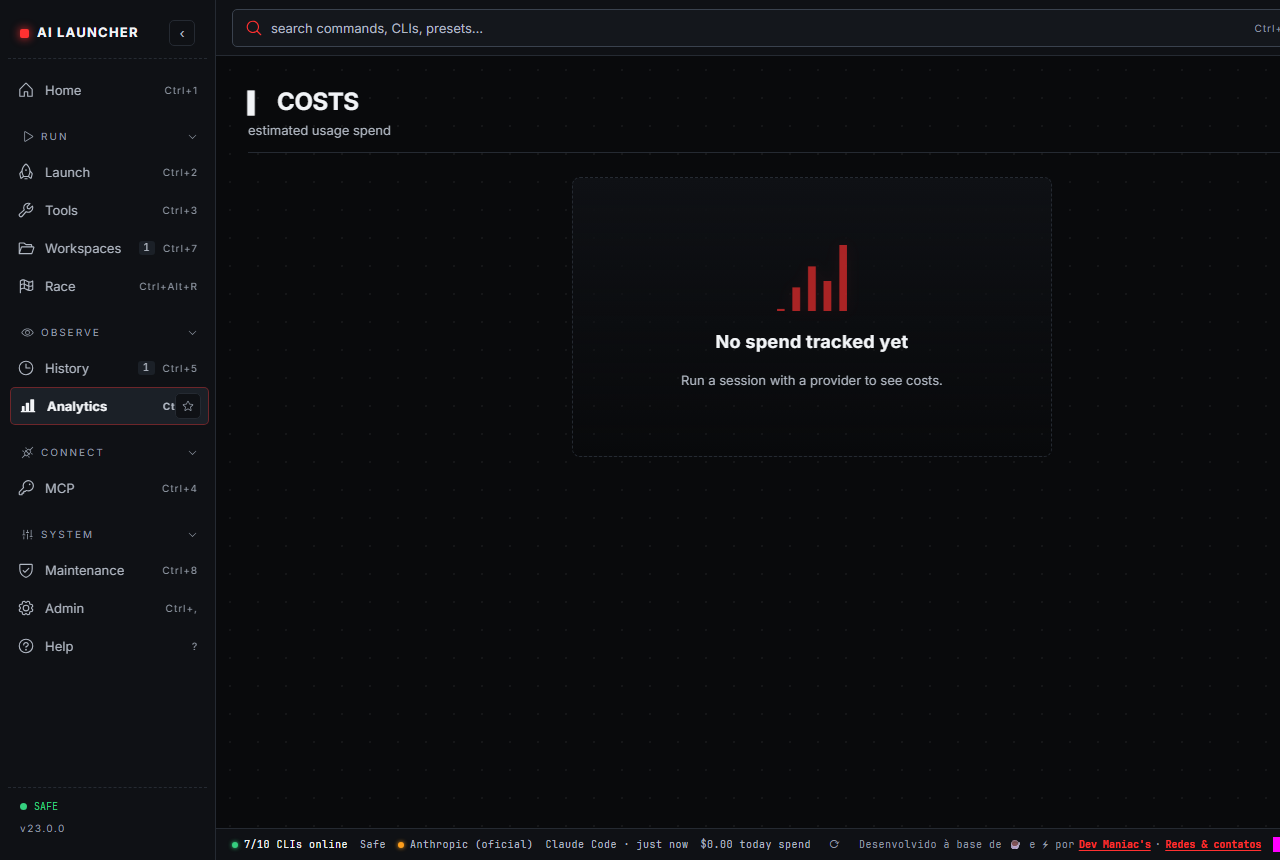
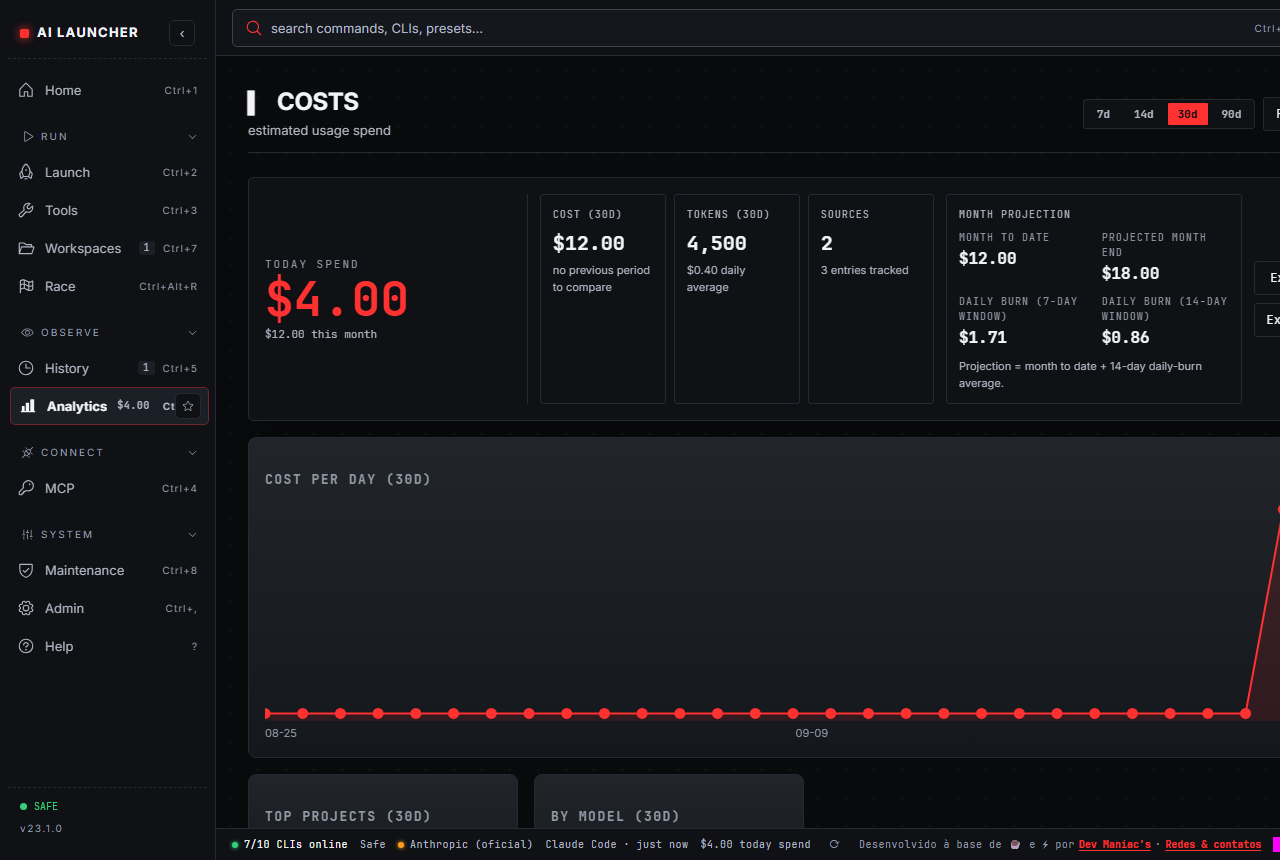
chore(release): bump to v23.1.0 — Cost Governance 3.0
Version 23.0.0 -> 23.1.0 across package.json/lock, tauri.conf.json and
Cargo.toml/lock. CHANGELOG gains the 23.1.0 Cost Governance 3.0 section
(per-project calendar-month budgets, month-end projection, centralized
usage store, loss-less v15->v3 migration, backup-import migrate fix);
docs/releases/v23.1.0.md carries the canonical notes. README badges,
roadmaps, bug template and the terminal hero now point at v23.1.0, and
08-costs-analytics.png is re-captured with the month projection card
(usage seed added to the capture spec).

diff --git a/e2e/capture-v22-screenshots.spec.ts b/e2e/capture-v22-screenshots.spec.ts
@@ -46,6 +46,30 @@ const CLIS_STUB = [
   { key: "droid", name: "Factory Droid", command: "droid", installed: false, version: null },
 ];
 
+// Usage seed for the Costs surface: three distinct current-month days so the
+// month projection card renders with real numbers (same date-relative shape as
+// the canonical wave-3d seeds in costs.spec.ts — the capture must run on/after
+// the 3rd day of the month, like the projection test's honest skip).
+function isoDate(daysAgo: number): string {
+  const d = new Date();
+  d.setDate(d.getDate() - daysAgo);
+  return `${d.getFullYear()}-${String(d.getMonth() + 1).padStart(2, "0")}-${String(d.getDate()).padStart(2, "0")}`;
+}
+
+const USAGE_SEED = {
+  entries: [0, 1, 2].map((offset, i) => ({
+    date: isoDate(offset),
+    cli: i % 2 === 0 ? "codex" : "claude",
+    provider: i % 2 === 0 ? "openai" : "anthropic",
+    model: i % 2 === 0 ? "gpt-5" : "opus",
+    tokens_in: 1000,
+    tokens_out: 500,
+    cost_estimate_usd: 4.0,
+    project: "Web Portal",
+    project_path: "C:/dev/web-portal",
+  })),
+};
+
 test.describe("v22 public screenshots capture", () => {
   const screenshotsDir = path.resolve(process.cwd(), "docs/screenshots/v22");
 
@@ -58,6 +82,7 @@ test.describe("v22 public screenshots capture", () => {
       responses: {
         get_all_clis: CLIS_STUB,
         check_clis: CLIS_STUB,
+        read_usage_stats: USAGE_SEED,
         list_active_sessions: [
           {
             session_id: "sess-v22-1",

diff --git a/docs/releases/v23.1.0.md b/docs/releases/v23.1.0.md
@@ -1,0 +1,48 @@
+# AI Launcher v23.1.0
+
+The cost-governance release: Budget Guard learns per-project budgets — calendar-month quotas with their own alert thresholds, created from reconciled usage projects — sitting beside the existing rolling-window provider limits. The Costs surface gains a month projection card that estimates end-of-month spend from the recent burn rate, with an honest insufficient-data state when there is not enough history to project. Usage state is centralized in one shared, zod-validated store, projects are reconciled across workspace labels into canonical keys, and existing budgets migrate loss-lessly to the new v3 storage schema. Budgets still only alert — they never block; enforcement remains future work.
+
+## Highlights
+
+- **Per-project budgets**: a Providers | Projects tab switch (WAI-ARIA tablist with arrow-key navigation) lets each project carry a calendar-month quota with its own alert threshold, created from a dropdown of reconciled usage projects (canonical keys, deduplicated) with per-item removal.
+- **Month-end projection**: the Costs hero gains a projection card — month-to-date spend, end-of-month projection from the 14-day daily-burn average, 7- and 14-day burn windows, and an estimated overflow date ("~Sep 28") when an active budget is projected to burst within its period. Fewer than 3 days with data renders an honest "insufficient data" state instead of a number, and a manual refresh button bypasses the backend cache.
+- **Alerts, not blocks — on purpose**: budgets surface warnings (sidebar chip, inbox events, progress bars) but never interrupt work; hard enforcement is explicitly future work.
+- **Canonical project reconciliation**: usage groups by a canonical project key (exact normalized path first, unambiguous basename fallback only) so the top-projects ranking shows one row per real project, with aggregated source labels in a tooltip and a per-project budget column (ok / warning / over).
+- **Centralized usage state**: one shared, zod-validated usage store feeds the boot budget check, the status bar and every Costs surface — replacing four duplicated `read_usage_stats` invokes.
+- **Loss-less budget migration**: storage schema moves v15 → v3 under the same `ai-launcher:v15:budget` key; the migration runs on the read path and on old backup imports (which previously never ran the entry's schema migration), and corrupt numerics fall back to safe defaults instead of dropping entries. Budgets from older versions migrate automatically with no data loss.
+- **Accessibility & i18n**: every budget bar is an ARIA progressbar with `aria-valuenow/min/max` and accessible labels; the sidebar indicator reflects provider AND project budget health (worst percentage, dedicated `budget:project:<key>:<month>` inbox namespace); new strings shipped in English and pt-BR.
+
+## Validation
+
+v23.1.0 validation on the release commit:
+
+- `npm run typecheck` (0 errors)
+- `npm test` (326 tests passing)
+- `cargo test` (190 tests passing)
+- Playwright e2e suite (71 tests, including the 4 new costs tests: month projection with enough data, honest insufficient-data guard, project-budget creation from the Projects tab, and warning/exceeded budget states)
+- Playwright screenshot capture suite re-run for the README assets: `08-costs-analytics.png` refreshed with the month projection card; surfaces untouched by this release kept their previous captures
+
+## Expected release assets
+
+The GitHub release must attach:
+
+- [ ] `AI.Launcher_23.1.0_x64_en-US.msi` (Windows, WiX)
+- [ ] `AI.Launcher_23.1.0_x64-setup.exe` (Windows, NSIS)
+- [ ] `AI.Launcher_23.1.0_aarch64.dmg` (macOS, Apple silicon)
+- [ ] `AI.Launcher_23.1.0_x64.dmg` (macOS, Intel)
+- [ ] `ai-launcher_23.1.0_amd64.AppImage` (Linux)
+- [ ] `ai-launcher_23.1.0_amd64.deb` (Linux)
+- [ ] `latest.json` (updater manifest, signed)
+
+Each artifact gets its SHA256 published in the release notes; `latest.json` must carry a non-empty updater signature (checked by `scripts/audit-release.sh`).
+
+## Updater note
+
+The fail-closed release pipeline introduced in v22.9.0 remains in force and is proven on this release: if `TAURI_SIGNING_PRIVATE_KEY` is not configured or the generated `.sig` is missing, the workflow aborts before publishing `latest.json`, and `scripts/audit-release.sh` re-checks that the published manifest carries a non-empty signature. An unsigned or empty-signature manifest cannot reach users, which protects the in-app updater from bricking itself with an update it would refuse to install.
+
+## Notes
+
+- All operations remain 100% local, offline-first, and private. No cloud sync, telemetry, or remote tracking.
+- Windows remains the first-class platform; macOS and Linux builds ship the same core with platform-native secure storage and fail-closed gating for anything not yet available outside Windows.
+- Project budgets are advisory in v23.1.0: they warn near and over the limit but never block launches; enforcement is deliberately deferred to a future release.
+- Project reconciliation is conservative: ambiguous basenames stay ungrouped rather than risk merging unrelated projects.

diff --git a/ROADMAP.pt-BR.md b/ROADMAP.pt-BR.md
@@ -2,7 +2,7 @@
 
 Para onde o projeto está indo. Prioridades, não promessas: este roadmap não carrega datas de propósito — cada item sai quando estiver pronto.
 
-## Onde estamos — v23.0.0
+## Onde estamos — v23.1.0
 
 O AI Launcher é um command deck desktop nativo (Tauri v2 + React 19 + Rust) para descobrir, lançar e monitorar agentes CLI de IA, IDEs e servidores MCP — local-first, zero telemetria, licença MIT.
 
@@ -11,7 +11,7 @@ Pilares já entregues:
 - **Launcher Multi-Agente** — execução em 1 clique para Claude Code, Codex, Antigravity, Aider, Goose, Cline, Roo Code, Continue, Cody, Copilot, VS Code e Cursor
 - **Race Mode** — corridas multiagente paralelas em worktrees git isolados, com Diff & Review Cockpit e adoção atômica
 - **Hub MCP por Projeto** — detecção automática de stack, presets validados e monitoramento de saúde
-- **Analytics de Custos & Budget Guard** — rastreio de gasto por provedor em tempo real, com tetos mensais configuráveis e alertas
+- **Analytics de Custos & Budget Guard** — rastreio de gasto por provedor em tempo real, orçamentos por projeto com mês calendário e projeção de gastos até o fim do mês, com alertas configuráveis
 - **Environment Doctor** — diagnóstico concorrente de runtimes (Node, Python, Rust, Docker e mais) com reparo guiado em 1 clique
 - **Agent Runbooks** — scripts declarativos e repetíveis de setup, com logs em tempo real, dry-run e aprovações
 - **Command Palette e navegação keyboard-first** — paleta `Ctrl+K`, troca de abas `Ctrl+1-9/0`
@@ -20,7 +20,7 @@ Pilares já entregues:
 
 ## Entregas recentes
 
-Ondas recentes de engenharia (higiene → rede de proteção → plataforma), até a v23.0.0:
+Ondas recentes de engenharia (higiene → rede de proteção → plataforma), até a v23.1.0:
 
 - [x] Higiene do núcleo — helpers de segurança deduplicados, camada de erro tipada (`AppError`) nos commands Rust, varreduras de rede/arquivo tiradas da thread de comandos
 - [x] Segurança de shell — escaping de metacaracteres no fallback `cmd /K`, tokens de comando custom sob guarda, probe HTTP real para o health check de MCP
@@ -39,7 +39,7 @@ saíram na v23.0.0; os demais itens seguem nesta lista até ficarem prontos.
 
 - [x] **Multi-agente paralelo com isolamento por git worktree** — Race Mode entregue na v23.0.0: até 3 agentes no mesmo prompt, cada um em seu worktree isolado, com colunas de status ao vivo, auto-commit do trabalho não commitado, cemitério de corridas com retenção de 7 dias e recuperação de crash
 - [x] **Diff & Review Cockpit** — entregue na v23.0.0: arquivos alterados por agente e diff unificado colorido, com adoção atômica (branch como padrão, ou apply com relatório de conflitos por arquivo — nunca parcial)
-- [ ] **Cost Governance 3.0** — orçamento por projeto, projeção de gastos e custo por sessão
+- [x] **Cost Governance 3.0** — entregue na v23.1.0: orçamentos por projeto com mês calendário, projeção de gastos até o fim do mês com estado honesto de dados insuficientes, reconciliação canônica projeto/workspace e store de uso centralizado (alertas apenas informativos — enforcement é trabalho futuro)
 - [ ] **Registry de Runbooks assinado** — distribuição de runbooks verificada com minisign
 - [ ] **Agendador local de runbooks** — execute runbooks em horários programados, totalmente offline
 - [x] **Reagrupamento da sidebar** — grupos Executar / Observar / Conectar-Sistema com atalhos fixados (entregue na onda v23.1: grupos Início / Executar / Observar / Conectar / Sistema, colapsáveis com memória, superfícies fixáveis e Doctor + Pré-reqs + Atualizações fundidos na superfície Manutenção)

diff --git a/CHANGELOG.md b/CHANGELOG.md
@@ -12,6 +12,10 @@ and this project adheres to [Semantic Versioning](https://semver.org/spec/v2.0.0
 
 ## [Unreleased]
 
+## [23.1.0] — 2026-09-23 — Cost Governance 3.0
+
+The cost-governance release: Budget Guard learns per-project budgets — calendar-month quotas with their own alert thresholds, created from reconciled usage projects — sitting beside the existing rolling-window provider limits. The Costs surface gains a month projection card that estimates end-of-month spend from the recent burn rate, with an honest insufficient-data state when there is not enough history to project. Usage state is centralized in one shared, zod-validated store, projects are reconciled across workspace labels into canonical keys, and existing budgets migrate loss-lessly to the new v3 storage schema. Budgets still only alert — they never block; enforcement remains future work.
+
 ### Added
 - **Project budgets:** Budget Guard now has a Providers | Projects tab switch (WAI-ARIA tablist with arrow-key navigation). Each project gets a calendar-month quota ("Monthly (calendar)", with its own alert threshold), created from a dropdown of reconciled usage projects (canonical keys, deduplicated), with per-item removal alongside the existing rolling-window provider limits.
 - **Month projection:** the Costs surface gains a projection card — month-to-date spend, end-of-month projection from the 14-day daily-burn average, 7- and 14-day burn windows, and an estimated overflow date ("~Sep 28") when an active budget is projected to burst within its period. Fewer than 3 days with data renders an honest "insufficient data" state instead of a number.
@@ -21,7 +25,15 @@ and this project adheres to [Semantic Versioning](https://semver.org/spec/v2.0.0
 - All budget bars (dashboard and ranking column) are exposed as ARIA progressbars with `aria-valuenow/min/max` and accessible labels.
 
 ### Changed
+- **Loss-less budget storage v15 → v3:** budget limits now carry an `id`, a `scope` (`provider` | `project`), a `period` (`rolling` | `calendar-month`) and a `createdAt`, stored under the same `ai-launcher:v15:budget` key. The v15 → v3 migration runs on the read path (`budget.ts`) and on old backup imports; v15 entries are never dropped — corrupt numerics fall back to safe defaults with a `console.warn` instead.
 - **Usage export carries `project_path`:** usage entries now include the raw project directory when reliably known (Codex records its `cwd`; Claude leaves it empty), so the CSV export gained the column additively — existing consumers are unaffected. The report also exposes top projects aggregated by a canonical `key` with a stable `display_name`.
+
+### Fixed
+- **Backup imports now run schema migrations:** `importConfig` applied incoming values without calling the registry entry's `migrate`, so legacy backups skipped the v15 → v3 budget migration on import. Imports now apply the entry's declared migration structurally and idempotently (backups carry no per-key storage version, so `fromVersion` is treated as unknown).
+
+### CI and Dependencies
+- Playwright e2e coverage expanded: a new costs suite covers the month projection card, the honest insufficient-data guard, project-budget creation from the Projects tab, and warning/exceeded budget states (4 new tests).
+- New UI strings shipped in English and pt-BR; the Analytics visual baselines were refreshed for the new projection hero (dark, light, and high-contrast).
 
 ## [23.0.0] — 2026-09-22 — Fleet Command
 

diff --git a/ROADMAP.md b/ROADMAP.md
@@ -2,7 +2,7 @@
 
 Where the project is heading. Priorities, not promises: this roadmap intentionally carries no dates — each item ships when it is done.
 
-## Where we are — v23.0.0
+## Where we are — v23.1.0
 
 AI Launcher is a native desktop command deck (Tauri v2 + React 19 + Rust) for discovering, launching, and monitoring AI CLI agents, IDEs, and MCP servers — local-first, zero telemetry, MIT licensed.
 
@@ -11,7 +11,7 @@ Pillars already shipped:
 - **Multi-Agent Launcher** — one-click launch for Claude Code, Codex, Antigravity, Aider, Goose, Cline, Roo Code, Continue, Cody, Copilot, VS Code, and Cursor
 - **Race Mode** — parallel multi-agent races in isolated git worktrees with a Diff & Review Cockpit and atomic adoption
 - **Project MCP Hub** — automatic stack detection, validated server presets, and health monitoring
-- **Cost Analytics & Budget Guard** — real-time per-provider spend tracking with configurable monthly thresholds and alerts
+- **Cost Analytics & Budget Guard** — real-time per-provider spend tracking, per-project calendar-month budgets, and a month-end spend projection, with configurable alerts
 - **Environment Doctor** — concurrent runtime diagnostics (Node, Python, Rust, Docker, and more) with guided one-click repairs
 - **Agent Runbooks** — declarative, repeatable multi-step setup scripts with live logs, dry-run, and approvals
 - **Command Palette & keyboard-first navigation** — `Ctrl+K` palette, `Ctrl+1-9/0` tab switcher
@@ -20,7 +20,7 @@ Pillars already shipped:
 
 ## Shipped recently
 
-Recent engineering waves (hygiene → safety net → platform), as of v23.0.0:
+Recent engineering waves (hygiene → safety net → platform), as of v23.1.0:
 
 - [x] Core hygiene pass — deduplicated safety helpers, typed `AppError` layer across Rust commands, blocking network/filesystem scans moved off the command thread
 - [x] Shell safety — escaped `cmd /K` fallback metacharacters, gated custom command tokens, real HTTP reachability probe for MCP health checks
@@ -39,7 +39,7 @@ v23.0.0; the remaining items stay on this list until they ship.
 
 - [x] **Parallel multi-agent with git worktree isolation** — Race Mode shipped in v23.0.0: up to 3 agents on the same prompt, each in its own isolated worktree, with live status columns, auto-commit of uncommitted agent work, a 7-day race graveyard with restore, and crash recovery
 - [x] **Diff & Review Cockpit** — shipped in v23.0.0: per-agent changed files and a unified colorized diff, with atomic adoption (branch default, or apply with a per-file conflict report — never partial)
-- [ ] **Cost Governance 3.0** — per-project budgets, spend projection, and per-session cost tracking
+- [x] **Cost Governance 3.0** — shipped in v23.1.0: per-project calendar-month budgets, a month-end spend projection with an honest insufficient-data state, canonical project/workspace reconciliation, and a centralized usage store (advisory alerts only — enforcement is future work)
 - [ ] **Signed Runbook Registry** — minisign-verified runbook distribution
 - [ ] **Local runbook scheduler** — run runbooks on a schedule, fully offline
 - [x] **Sidebar regrouping** — Execute / Observe / Connect-System groups with pinned shortcuts (shipped in the v23.1 wave: Home / Run / Observe / Connect / System groups, collapsible with memory, pinned surfaces, and Doctor + Prereqs + Updates fused into one Maintenance surface)

diff --git a/README.pt-BR.md b/README.pt-BR.md
@@ -13,7 +13,7 @@
 **Uma central desktop nativa, ultra leve e segura para detectar, executar, orquestrar e monitorar todos os seus agentes CLI de IA, IDEs customizadas, servidores MCP e limites de custo por provedor.**
 
 [![Licença: MIT](https://img.shields.io/badge/licen%C3%A7a-MIT-blue)](./LICENSE)
-[![Versão 23.0.0](https://img.shields.io/badge/vers%C3%A3o-23.0.0-ff3131?labelColor=1a1a1d)](https://github.com/HelbertMoura/ai_launcher/releases)
+[![Versão 23.1.0](https://img.shields.io/badge/vers%C3%A3o-23.1.0-ff3131?labelColor=1a1a1d)](https://github.com/HelbertMoura/ai_launcher/releases)
 [![Plataforma: Windows | macOS | Linux](https://img.shields.io/badge/plataforma-Windows%20%7C%20macOS%20%7C%20Linux-0078D4?labelColor=1a1a1d)](https://github.com/HelbertMoura/ai_launcher/releases)
 [![Quality Gates](https://github.com/HelbertMoura/ai_launcher/actions/workflows/quality.yml/badge.svg)](https://github.com/HelbertMoura/ai_launcher/actions/workflows/quality.yml)
 ![React 19](https://img.shields.io/badge/React-19-61dafb?labelColor=1a1a1d)

diff --git a/README.md b/README.md
@@ -13,7 +13,7 @@
 **A native, ultra-lightweight desktop control plane to discover, launch, orchestrate, and monitor all your AI CLI agents, custom IDEs, MCP servers, and multi-provider token budgets.**
 
 [![License: MIT](https://img.shields.io/badge/license-MIT-blue)](./LICENSE)
-[![Version 23.0.0](https://img.shields.io/badge/version-23.0.0-ff3131?labelColor=1a1a1d)](https://github.com/HelbertMoura/ai_launcher/releases)
+[![Version 23.1.0](https://img.shields.io/badge/version-23.1.0-ff3131?labelColor=1a1a1d)](https://github.com/HelbertMoura/ai_launcher/releases)
 [![Platform: Windows | macOS | Linux](https://img.shields.io/badge/platform-Windows%20%7C%20macOS%20%7C%20Linux-0078D4?labelColor=1a1a1d)](https://github.com/HelbertMoura/ai_launcher/releases)
 [![Quality Gates](https://github.com/HelbertMoura/ai_launcher/actions/workflows/quality.yml/badge.svg)](https://github.com/HelbertMoura/ai_launcher/actions/workflows/quality.yml)
 ![React 19](https://img.shields.io/badge/React-19-61dafb?labelColor=1a1a1d)

diff --git a/.github/ISSUE_TEMPLATE/bug_report.md b/.github/ISSUE_TEMPLATE/bug_report.md
@@ -26,7 +26,7 @@ assignees: ''
 
 ### Environment
 
-- AI Launcher version: <!-- visible in the app header, e.g. 23.0.0 -->
+- AI Launcher version: <!-- visible in the app header, e.g. 23.1.0 -->
 - Windows version: <!-- Settings → System → About, e.g. Windows 11 23H2 -->
 - Affected CLI / tool (if any): <!-- e.g. Claude Code 2.0.3 installed via npm -->
 - Node / Python version (if the problem is install-related):
